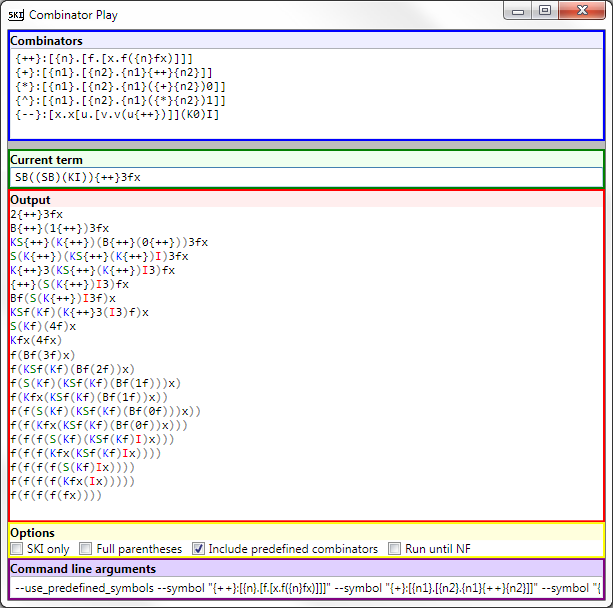
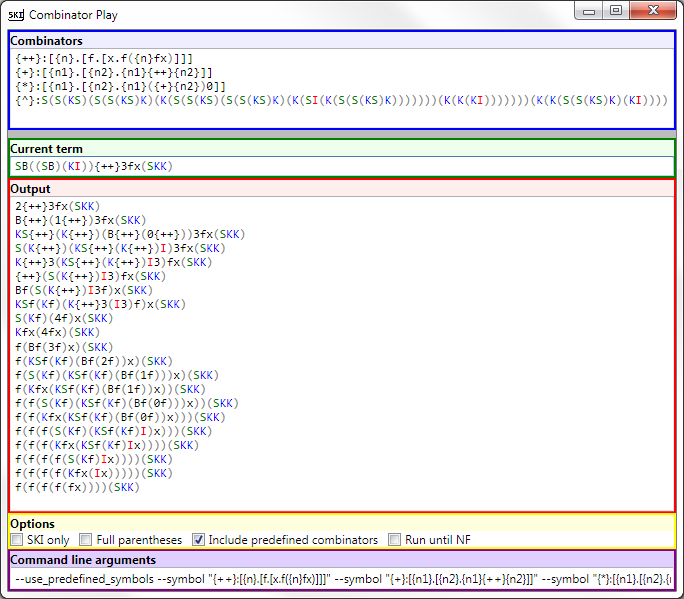
Syntax highlighting for all text fields.
- Combinator text, input text and output text.

Changed region(s): [[0.0, 0.0, 1.0, 1.0]]

diff --git a/WPF_FrontEnd/MainWindow.xaml b/WPF_FrontEnd/MainWindow.xaml
@@ -20,10 +20,7 @@
                     <RowDefinition Height="*" />
                 </Grid.RowDefinitions>
                 <TextBlock Grid.Row="0" Text="Combinators" FontWeight="Bold" Background="#FFeeeeff"/>
-                <TextBox Grid.Row="1" Name="Combinators"
-                         HorizontalScrollBarVisibility="Auto" VerticalScrollBarVisibility="Auto"
-                         AcceptsReturn="True"
-                         FontFamily="Consolas" TextChanged="Combinators_TextChanged" />
+                <ns:ColoredCombinatorTextBlock Grid.Row="1" x:Name="Combinators"/>
             </Grid>
         </Border>
 
@@ -39,10 +36,7 @@
                     <RowDefinition Height="*" />
                 </Grid.RowDefinitions>
                 <TextBlock Grid.Row="0" Text="Current term" FontWeight="Bold" Background="#FFeeffee"/>
-                <TextBox Grid.Row="1" Name="Input"
-                         TextChanged="CurrentTerm_TextChanged"
-                         HorizontalScrollBarVisibility="Auto" VerticalScrollBarVisibility="Auto"
-                         FontFamily="Consolas"/>
+                <ns:ColoredCombinatorTextBlock Grid.Row="1" x:Name="Input"/>
             </Grid>
         </Border>
 

diff --git a/WPF_FrontEnd/ColoredCombinatorTextBlock.xaml b/WPF_FrontEnd/ColoredCombinatorTextBlock.xaml
@@ -8,7 +8,12 @@
     <Grid>
         <ScrollViewer HorizontalScrollBarVisibility="Auto" VerticalScrollBarVisibility="Auto">
             <Grid Name="ContentSpace">
-                
+                <TextBox Name="Default_Box" Foreground="Black" Background="White" FontFamily="Consolas" />
+                <TextBox Name="S_Box" Foreground="Green" Background="Transparent" FontFamily="Consolas" />
+                <TextBox Name="K_Box" Foreground="Blue" Background="Transparent" FontFamily="Consolas" />
+                <TextBox Name="I_Box" Foreground="Red" Background="Transparent" FontFamily="Consolas" />
+                <TextBox Name="Parantheses_Box" Foreground="Gray" Background="Transparent" FontFamily="Consolas" />
+                <TextBox Name="Complete_Box" Foreground="Transparent" Background="Transparent" FontFamily="Consolas" AcceptsReturn="True" TextChanged="Complete_Box_TextChanged" />
             </Grid>
         </ScrollViewer>
     </Grid>

diff --git a/WPF_FrontEnd/ColoredCombinatorTextBlock.xaml.cs b/WPF_FrontEnd/ColoredCombinatorTextBlock.xaml.cs
@@ -24,107 +24,98 @@ namespace WPF_FrontEnd
             InitializeComponent();
         }
 
-        class ColorScheme
-        {
-            public string glyphs;
-            public StringBuilder text = new StringBuilder();
-            public TextBox textBlock;
-        }
-
-        List<ColorScheme> _colorSchemes = new List<ColorScheme>();
-        ColorScheme _defaultScheme;
-        ColorScheme _completeScheme;
-
-        public void InitializeColorScheme()
-        {
-            Func<string, Brush, ColorScheme> makeColorScheme = (str, brush) =>
-                {
-                    var tb = new TextBox()
-                    {
-                        Background = Brushes.Transparent,
-                        Foreground = brush,
-                        FontFamily = new FontFamily("Consolas")
-                    };
-                    return new ColorScheme()
-                    {
-                        glyphs = str,
-                        textBlock = tb
-                    };
-                };
-
-            _colorSchemes.Add(makeColorScheme("()", Brushes.Gray));
-            _colorSchemes.Add(makeColorScheme("S", Brushes.Green));
-            _colorSchemes.Add(makeColorScheme("K", Brushes.Blue));
-            _colorSchemes.Add(makeColorScheme("I", Brushes.Red));
-            _defaultScheme = makeColorScheme("", Brushes.Black);
-            _defaultScheme.textBlock.Background = Brushes.White;
-            _completeScheme = makeColorScheme("", Brushes.Transparent);
-
-            ContentSpace.Children.Add(_defaultScheme.textBlock);
-            foreach (var scheme in _colorSchemes)
-            {
-                ContentSpace.Children.Add(scheme.textBlock);
-            }
-            ContentSpace.Children.Add(_completeScheme.textBlock);
-        }
-
-        private string _text;
         public string Text
         {
             get
             {
-                return _text;
+                return Complete_Box.Text;
             }
             set
             {
-                _text = value;
-
-                // First clear all the text.
-                foreach (var scheme in _colorSchemes)
-                    scheme.text.Clear();
-                _defaultScheme.text.Clear();
-                _completeScheme.text.Clear();
-
-                foreach (char c in _text)
-                {
-                    bool found = false;
-                    foreach (var scheme in _colorSchemes)
-                    {
-                        if (scheme.glyphs.Contains(c))
-                        {
-                            scheme.text.Append(c);
-                            found = true;
-                        }
-                        else if (Char.IsControl(c))
-                        {
-                            scheme.text.Append(c);
-                        }
-                        else
-                        {
-                            scheme.text.Append(' ');
-                        }
-                    }
-
-                    if (!found)
-                        _defaultScheme.text.Append(c);
-                    else if (Char.IsControl(c))
-                    {
-                        _defaultScheme.text.Append(c);
-                    }
-                    else
-                    {
-                        _defaultScheme.text.Append(' ');
-                    }
-                }
-                _completeScheme.text.Append(_text);
-
-                foreach (var scheme in _colorSchemes)
-                {
-                    scheme.textBlock.Text = scheme.text.ToString();
-                }
-                _defaultScheme.textBlock.Text = _defaultScheme.text.ToString();
-                _completeScheme.textBlock.Text = _completeScheme.text.ToString();
+                Complete_Box.Text = value;
             }
+        }
+
+        public bool IsReadOnly
+        {
+            get
+            {
+                return Complete_Box.IsReadOnly;
+            }
+            set
+            {
+                Complete_Box.IsReadOnly = value;
+            }
+        }
+
+        public event Action TextChanged;
+
+        private void Complete_Box_TextChanged(object sender, TextChangedEventArgs e)
+        {
+            var defaultStrb = new StringBuilder(Complete_Box.Text.Length);
+            var s_Strb = new StringBuilder(Complete_Box.Text.Length);
+            var k_Strb = new StringBuilder(Complete_Box.Text.Length);
+            var i_Strb = new StringBuilder(Complete_Box.Text.Length);
+            var paran_Strb = new StringBuilder(Complete_Box.Text.Length);
+
+            var rest_default = new StringBuilder[4] { s_Strb, k_Strb, i_Strb, paran_Strb };
+            var rest_s = new StringBuilder[4] { defaultStrb, k_Strb, i_Strb, paran_Strb };
+            var rest_k = new StringBuilder[4] { s_Strb, defaultStrb, i_Strb, paran_Strb };
+            var rest_i = new StringBuilder[4] { s_Strb, k_Strb, defaultStrb, paran_Strb };
+            var rest_paran = new StringBuilder[4] { s_Strb, k_Strb, i_Strb, defaultStrb };
+
+            foreach (char c in Complete_Box.Text)
+            {
+                StringBuilder strb = null;
+                StringBuilder[] rest = null;
+
+                switch (c)
+                {
+                    case 'S':
+                        strb = s_Strb;
+                        rest = rest_s;
+                        break;
+                    case 'K':
+                        strb = k_Strb;
+                        rest = rest_k;
+                        break;
+                    case 'I':
+                        strb = i_Strb;
+                        rest = rest_i;
+                        break;
+                    case '(':
+                    case ')':
+                        strb = paran_Strb;
+                        rest = rest_paran;
+                        break;
+                    default:
+                        strb = defaultStrb;
+                        rest = rest_default;
+                        break;
+                }
+
+                // Add the character to the right string.
+                strb.Append(c);
+                // Update the rest with white space.
+                foreach (var i in rest)
+                {
+                    if (Char.IsControl(c))
+                        i.Append(c);
+                    else
+                        i.Append(' ');
+                }
+            }
+
+            // Finally update the actual controls.
+            Default_Box.Text = defaultStrb.ToString();
+            S_Box.Text = s_Strb.ToString();
+            K_Box.Text = k_Strb.ToString();
+            I_Box.Text = i_Strb.ToString();
+            Parantheses_Box.Text = paran_Strb.ToString();
+
+            // Notify all listeners
+            if (TextChanged != null)
+                TextChanged();
         }
     }
 }

diff --git a/WPF_FrontEnd/MainWindow.xaml.cs b/WPF_FrontEnd/MainWindow.xaml.cs
@@ -25,9 +25,14 @@ namespace WPF_FrontEnd
         public MainWindow()
         {
             InitializeComponent();
-            Output.InitializeColorScheme();
+            Output.IsReadOnly = true;
+            Input.TextChanged += ExecuteBackend;
+            Combinators.TextChanged += ExecuteBackend;
         }
 
+        /// <summary>
+        /// Runs the backend with the data from the UI.
+        /// </summary>
         private void ExecuteBackend()
         {
             if (!IsInitialized)
@@ -76,16 +81,6 @@ namespace WPF_FrontEnd
                     Output.Text = reader.ReadToEnd();
                 }
             }
-        }
-
-        private void CurrentTerm_TextChanged(object sender, TextChangedEventArgs e)
-        {
-            ExecuteBackend();
-        }
-
-        private void Combinators_TextChanged(object sender, TextChangedEventArgs e)
-        {
-            ExecuteBackend();
         }
 
         private void Opt_CheckedChanged(object sender, RoutedEventArgs e)

diff --git a/README.md b/README.md
@@ -8,7 +8,7 @@ Features:
 - Converts abstractions to SKI terms.
 - Long identifiers for multi-character symbols.
 - Predefined well known combinators.
-- Syntax highlighting (currently only for the output).
+- Syntax highlighting.
 - Various options to control how the output is formatted.
 - Output updates realtime as a combinator term is typed.
 
